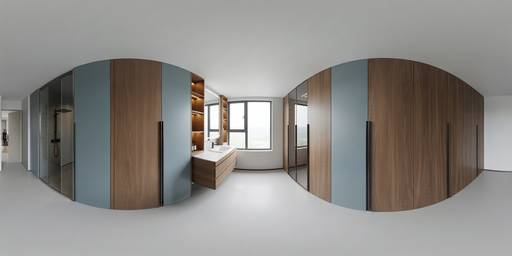
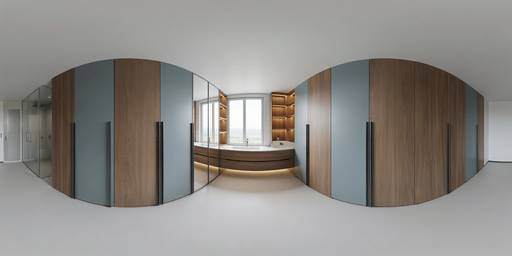
v2 定稿:09/10 重出+重定位朝向,默认视场角100度

Changed region(s): [[0.0, 0.25, 1.0, 0.8438], [0.7188, 0.2188, 0.7812, 0.25], [0.625, 0.25, 0.6562, 0.2812]]

diff --git a/index.html b/index.html
@@ -209,7 +209,7 @@
 </div>
 
 <script>
-const ROOMS = [{"file": "pano10v2/s01_lo.jpg", "hi": "pano10v2/s01.jpg", "thumb": "thumbs/s01.jpg", "label": "通顶鞋柜 / 换鞋凳 / 背光开放格", "name": "01_01_玄关柜", "v1": "01_玄关柜", "idx": 1, "yaw0": 0.7854}, {"file": "pano10v2/s02_lo.jpg", "hi": "pano10v2/s02.jpg", "thumb": "thumbs/s02.jpg", "label": "满墙电视柜 / 玻璃门高柜 / 层板灯带", "name": "02_02_客厅电视墙", "v1": "02_客厅电视墙", "idx": 2, "yaw0": -0.7854}, {"file": "pano10v2/s03_lo.jpg", "hi": "pano10v2/s03.jpg", "thumb": "thumbs/s03.jpg", "label": "通顶餐边柜 / 酒柜 / 咖啡台", "name": "03_03_餐厅餐边柜", "v1": "03_餐厅餐边柜", "idx": 3, "yaw0": -0.7854}, {"file": "pano10v2/s04_lo.jpg", "hi": "pano10v2/s04.jpg", "thumb": "thumbs/s04.jpg", "label": "无拉手橱柜 / 中岛 / 高柜拉篮", "name": "04_04_厨房橱柜", "v1": "04_厨房橱柜", "idx": 4, "yaw0": -0.7854}, {"file": "pano10v2/s05_lo.jpg", "hi": "pano10v2/s05.jpg", "thumb": "thumbs/s05.jpg", "label": "通顶衣柜 / 悬浮床头柜", "name": "05_05_主卧衣柜", "v1": "05_主卧衣柜", "idx": 5, "yaw0": 0.7854}, {"file": "pano10v2/s06_lo.jpg", "hi": "pano10v2/s06.jpg", "thumb": "thumbs/s06.jpg", "label": "U 形衣帽间 / 玻璃门 / 岛台妆台", "name": "06_06_衣帽间", "v1": "06_衣帽间", "idx": 6, "yaw0": -0.7854}, {"file": "pano10v2/s07_lo.jpg", "hi": "pano10v2/s07.jpg", "thumb": "thumbs/s07.jpg", "label": "满墙书柜 / 背光展示格", "name": "07_07_书房书柜", "v1": "07_书房书柜", "idx": 7, "yaw0": -0.7854}, {"file": "pano10v2/s08_lo.jpg", "hi": "pano10v2/s08.jpg", "thumb": "thumbs/s08.jpg", "label": "榻榻米地台 / 书桌壁龛", "name": "08_08_次卧榻榻米", "v1": "08_次卧榻榻米", "idx": 8, "yaw0": 0.7854}, {"file": "pano10v2/s09_lo.jpg", "hi": "pano10v2/s09.jpg", "thumb": "thumbs/s09.jpg", "label": "洗衣柜 / 洗烘嵌入 / 晾晒区", "name": "09_09_阳台柜", "v1": "09_阳台柜", "idx": 9, "yaw0": 0.7854}, {"file": "pano10v2/s10_lo.jpg", "hi": "pano10v2/s10.jpg", "thumb": "thumbs/s10.jpg", "label": "悬浮浴室柜 / 镜柜 / 高柜", "name": "10_10_卫生间浴室柜", "v1": "10_卫生间浴室柜", "idx": 10, "yaw0": 0.7854}];
+const ROOMS = [{"file": "pano10v2/s01_lo.jpg", "hi": "pano10v2/s01.jpg", "thumb": "thumbs/s01.jpg", "label": "通顶鞋柜 / 换鞋凳 / 背光开放格", "name": "01_01_玄关柜", "v1": "01_玄关柜", "idx": 1, "yaw0": 0.7854}, {"file": "pano10v2/s02_lo.jpg", "hi": "pano10v2/s02.jpg", "thumb": "thumbs/s02.jpg", "label": "满墙电视柜 / 玻璃门高柜 / 层板灯带", "name": "02_02_客厅电视墙", "v1": "02_客厅电视墙", "idx": 2, "yaw0": -0.7854}, {"file": "pano10v2/s03_lo.jpg", "hi": "pano10v2/s03.jpg", "thumb": "thumbs/s03.jpg", "label": "通顶餐边柜 / 酒柜 / 咖啡台", "name": "03_03_餐厅餐边柜", "v1": "03_餐厅餐边柜", "idx": 3, "yaw0": -0.7854}, {"file": "pano10v2/s04_lo.jpg", "hi": "pano10v2/s04.jpg", "thumb": "thumbs/s04.jpg", "label": "无拉手橱柜 / 中岛 / 高柜拉篮", "name": "04_04_厨房橱柜", "v1": "04_厨房橱柜", "idx": 4, "yaw0": -0.7854}, {"file": "pano10v2/s05_lo.jpg", "hi": "pano10v2/s05.jpg", "thumb": "thumbs/s05.jpg", "label": "通顶衣柜 / 悬浮床头柜", "name": "05_05_主卧衣柜", "v1": "05_主卧衣柜", "idx": 5, "yaw0": 0.7854}, {"file": "pano10v2/s06_lo.jpg", "hi": "pano10v2/s06.jpg", "thumb": "thumbs/s06.jpg", "label": "U 形衣帽间 / 玻璃门 / 岛台妆台", "name": "06_06_衣帽间", "v1": "06_衣帽间", "idx": 6, "yaw0": -0.7854}, {"file": "pano10v2/s07_lo.jpg", "hi": "pano10v2/s07.jpg", "thumb": "thumbs/s07.jpg", "label": "满墙书柜 / 背光展示格", "name": "07_07_书房书柜", "v1": "07_书房书柜", "idx": 7, "yaw0": -0.7854}, {"file": "pano10v2/s08_lo.jpg", "hi": "pano10v2/s08.jpg", "thumb": "thumbs/s08.jpg", "label": "榻榻米地台 / 书桌壁龛", "name": "08_08_次卧榻榻米", "v1": "08_次卧榻榻米", "idx": 8, "yaw0": 0.7854}, {"file": "pano10v2/s09_lo.jpg", "hi": "pano10v2/s09.jpg", "thumb": "thumbs/s09.jpg", "label": "洗衣柜 / 洗烘嵌入 / 晾晒区", "name": "09_09_阳台柜", "v1": "09_阳台柜", "idx": 9, "yaw0": -0.7854}, {"file": "pano10v2/s10_lo.jpg", "hi": "pano10v2/s10.jpg", "thumb": "thumbs/s10.jpg", "label": "悬浮浴室柜 / 镜柜 / 高柜", "name": "10_10_卫生间浴室柜", "v1": "10_卫生间浴室柜", "idx": 10, "yaw0": -0.7854}];
 let SPOTS = {"01_01_玄关柜": [{"kind": "nav", "yaw": 0.0, "pitch": -0.3, "to": "02_02_客厅电视墙", "title": "→ 客厅电视墙"}, {"kind": "lamp", "yaw": -1.22, "pitch": 0.42, "title": "通顶鞋柜", "desc": "玄关:通顶鞋柜 + 换鞋凳 + 背光开放格,胡桃木纹配婷兰灰哑光门板"}, {"kind": "lamp", "yaw": 0.0, "pitch": 0.42, "title": "换鞋凳", "desc": "玄关:通顶鞋柜 + 换鞋凳 + 背光开放格,胡桃木纹配婷兰灰哑光门板"}, {"kind": "lamp", "yaw": 1.22, "pitch": 0.42, "title": "开放格灯带", "desc": "玄关:通顶鞋柜 + 换鞋凳 + 背光开放格,胡桃木纹配婷兰灰哑光门板"}], "02_02_客厅电视墙": [{"kind": "nav", "yaw": 0.0, "pitch": -0.3, "to": "03_03_餐厅餐边柜", "title": "→ 餐厅餐边柜"}, {"kind": "nav", "yaw": 3.141592653589793, "pitch": -0.3, "to": "01_01_玄关柜", "title": "← 玄关柜"}, {"kind": "lamp", "yaw": -1.22, "pitch": 0.42, "title": "满墙电视柜", "desc": "客厅:满墙电视柜 + 两侧玻璃门高柜,层板下暖光灯带"}, {"kind": "lamp", "yaw": 0.0, "pitch": 0.42, "title": "玻璃门高柜", "desc": "客厅:满墙电视柜 + 两侧玻璃门高柜,层板下暖光灯带"}, {"kind": "lamp", "yaw": 1.22, "pitch": 0.42, "title": "层板灯带", "desc": "客厅:满墙电视柜 + 两侧玻璃门高柜,层板下暖光灯带"}], "03_03_餐厅餐边柜": [{"kind": "nav", "yaw": 0.0, "pitch": -0.3, "to": "04_04_厨房橱柜", "title": "→ 厨房橱柜"}, {"kind": "nav", "yaw": 3.141592653589793, "pitch": -0.3, "to": "02_02_客厅电视墙", "title": "← 客厅电视墙"}, {"kind": "lamp", "yaw": -1.22, "pitch": 0.42, "title": "通顶餐边柜", "desc": "餐厅:通顶餐边柜一体玻璃酒柜,台面做咖啡操作位"}, {"kind": "lamp", "yaw": 0.0, "pitch": 0.42, "title": "玻璃酒柜", "desc": "餐厅:通顶餐边柜一体玻璃酒柜,台面做咖啡操作位"}, {"kind": "lamp", "yaw": 1.22, "pitch": 0.42, "title": "咖啡操作台", "desc": "餐厅:通顶餐边柜一体玻璃酒柜,台面做咖啡操作位"}], "04_04_厨房橱柜": [{"kind": "nav", "yaw": 0.0, "pitch": -0.3, "to": "05_05_主卧衣柜", "title": "→ 主卧衣柜"}, {"kind": "nav", "yaw": 3.141592653589793, "pitch": -0.3, "to": "03_03_餐厅餐边柜", "title": "← 餐厅餐边柜"}, {"kind": "lamp", "yaw": -1.22, "pitch": 0.42, "title": "无拉手橱柜", "desc": "厨房:无拉手门板 + 中岛 + 高柜内置拉篮"}, {"kind": "lamp", "yaw": 0.0, "pitch": 0.42, "title": "中岛台", "desc": "厨房:无拉手门板 + 中岛 + 高柜内置拉篮"}, {"kind": "lamp", "yaw": 1.22, "pitch": 0.42, "title": "高柜拉篮", "desc": "厨房:无拉手门板 + 中岛 + 高柜内置拉篮"}], "05_05_主卧衣柜": [{"kind": "nav", "yaw": 0.0, "pitch": -0.3, "to": "06_06_衣帽间", "title": "→ 衣帽间"}, {"kind": "nav", "yaw": 3.141592653589793, "pitch": -0.3, "to": "04_04_厨房橱柜", "title": "← 厨房橱柜"}, {"kind": "lamp", "yaw": -1.22, "pitch": 0.42, "title": "通顶衣柜", "desc": "主卧:通顶衣柜到顶收口,床头两侧悬浮柜"}, {"kind": "lamp", "yaw": 0.0, "pitch": 0.42, "title": "悬浮床头柜", "desc": "主卧:通顶衣柜到顶收口,床头两侧悬浮柜"}, {"kind": "lamp", "yaw": 1.22, "pitch": 0.42, "title": "柜内灯带", "desc": "主卧:通顶衣柜到顶收口,床头两侧悬浮柜"}], "06_06_衣帽间": [{"kind": "nav", "yaw": 0.0, "pitch": -0.3, "to": "07_07_书房书柜", "title": "→ 书房书柜"}, {"kind": "nav", "yaw": 3.141592653589793, "pitch": -0.3, "to": "05_05_主卧衣柜", "title": "← 主卧衣柜"}, {"kind": "lamp", "yaw": -1.22, "pitch": 0.42, "title": "U 形衣帽间", "desc": "衣帽间:U 形通顶柜 + 玻璃门挂衣区 + 岛台妆台"}, {"kind": "lamp", "yaw": 0.0, "pitch": 0.42, "title": "玻璃门挂衣区", "desc": "衣帽间:U 形通顶柜 + 玻璃门挂衣区 + 岛台妆台"}, {"kind": "lamp", "yaw": 1.22, "pitch": 0.42, "title": "岛台妆台", "desc": "衣帽间:U 形通顶柜 + 玻璃门挂衣区 + 岛台妆台"}], "07_07_书房书柜": [{"kind": "nav", "yaw": 0.0, "pitch": -0.3, "to": "08_08_次卧榻榻米", "title": "→ 次卧榻榻米"}, {"kind": "nav", "yaw": 3.141592653589793, "pitch": -0.3, "to": "06_06_衣帽间", "title": "← 衣帽间"}, {"kind": "lamp", "yaw": -1.22, "pitch": 0.42, "title": "满墙书柜", "desc": "书房:满墙书柜含背光展示格,靠窗书桌"}, {"kind": "lamp", "yaw": 0.0, "pitch": 0.42, "title": "背光展示格", "desc": "书房:满墙书柜含背光展示格,靠窗书桌"}, {"kind": "lamp", "yaw": 1.22, "pitch": 0.42, "title": "书桌", "desc": "书房:满墙书柜含背光展示格,靠窗书桌"}], "08_08_次卧榻榻米": [{"kind": "nav", "yaw": 0.0, "pitch": -0.3, "to": "09_09_阳台柜", "title": "→ 阳台柜"}, {"kind": "nav", "yaw": 3.141592653589793, "pitch": -0.3, "to": "07_07_书房书柜", "title": "← 书房书柜"}, {"kind": "lamp", "yaw": -1.22, "pitch": 0.42, "title": "榻榻米地台", "desc": "次卧:榻榻米地台 + 书桌壁龛 + 通顶衣柜"}, {"kind": "lamp", "yaw": 0.0, "pitch": 0.42, "title": "书桌壁龛", "desc": "次卧:榻榻米地台 + 书桌壁龛 + 通顶衣柜"}, {"kind": "lamp", "yaw": 1.22, "pitch": 0.42, "title": "衣柜", "desc": "次卧:榻榻米地台 + 书桌壁龛 + 通顶衣柜"}], "09_09_阳台柜": [{"kind": "nav", "yaw": 0.0, "pitch": -0.3, "to": "10_10_卫生间浴室柜", "title": "→ 卫生间浴室柜"}, {"kind": "nav", "yaw": 3.141592653589793, "pitch": -0.3, "to": "08_08_次卧榻榻米", "title": "← 次卧榻榻米"}, {"kind": "lamp", "yaw": -1.22, "pitch": 0.42, "title": "通顶洗衣柜", "desc": "阳台:通顶洗衣柜,洗烘嵌入,上方晾晒吊柜"}, {"kind": "lamp", "yaw": 0.0, "pitch": 0.42, "title": "洗烘嵌入位", "desc": "阳台:通顶洗衣柜,洗烘嵌入,上方晾晒吊柜"}, {"kind": "lamp", "yaw": 1.22, "pitch": 0.42, "title": "晾晒吊柜", "desc": "阳台:通顶洗衣柜,洗烘嵌入,上方晾晒吊柜"}], "10_10_卫生间浴室柜": [{"kind": "nav", "yaw": 3.141592653589793, "pitch": -0.3, "to": "09_09_阳台柜", "title": "← 阳台柜"}, {"kind": "lamp", "yaw": -1.22, "pitch": 0.42, "title": "悬浮浴室柜", "desc": "卫生间:悬浮浴室柜 + 镜柜 + 通顶高柜"}, {"kind": "lamp", "yaw": 0.0, "pitch": 0.42, "title": "镜柜", "desc": "卫生间:悬浮浴室柜 + 镜柜 + 通顶高柜"}, {"kind": "lamp", "yaw": 1.22, "pitch": 0.42, "title": "通顶高柜", "desc": "卫生间:悬浮浴室柜 + 镜柜 + 通顶高柜"}]};
 const ORIGIN = {"01_01_玄关柜": "玄关:通顶鞋柜 + 换鞋凳 + 背光开放格,胡桃木纹配婷兰灰哑光门板", "02_02_客厅电视墙": "客厅:满墙电视柜 + 两侧玻璃门高柜,层板下暖光灯带", "03_03_餐厅餐边柜": "餐厅:通顶餐边柜一体玻璃酒柜,台面做咖啡操作位", "04_04_厨房橱柜": "厨房:无拉手门板 + 中岛 + 高柜内置拉篮", "05_05_主卧衣柜": "主卧:通顶衣柜到顶收口,床头两侧悬浮柜", "06_06_衣帽间": "衣帽间:U 形通顶柜 + 玻璃门挂衣区 + 岛台妆台", "07_07_书房书柜": "书房:满墙书柜含背光展示格,靠窗书桌", "08_08_次卧榻榻米": "次卧:榻榻米地台 + 书桌壁龛 + 通顶衣柜", "09_09_阳台柜": "阳台:通顶洗衣柜,洗烘嵌入,上方晾晒吊柜", "10_10_卫生间浴室柜": "卫生间:悬浮浴室柜 + 镜柜 + 通顶高柜"};
 
